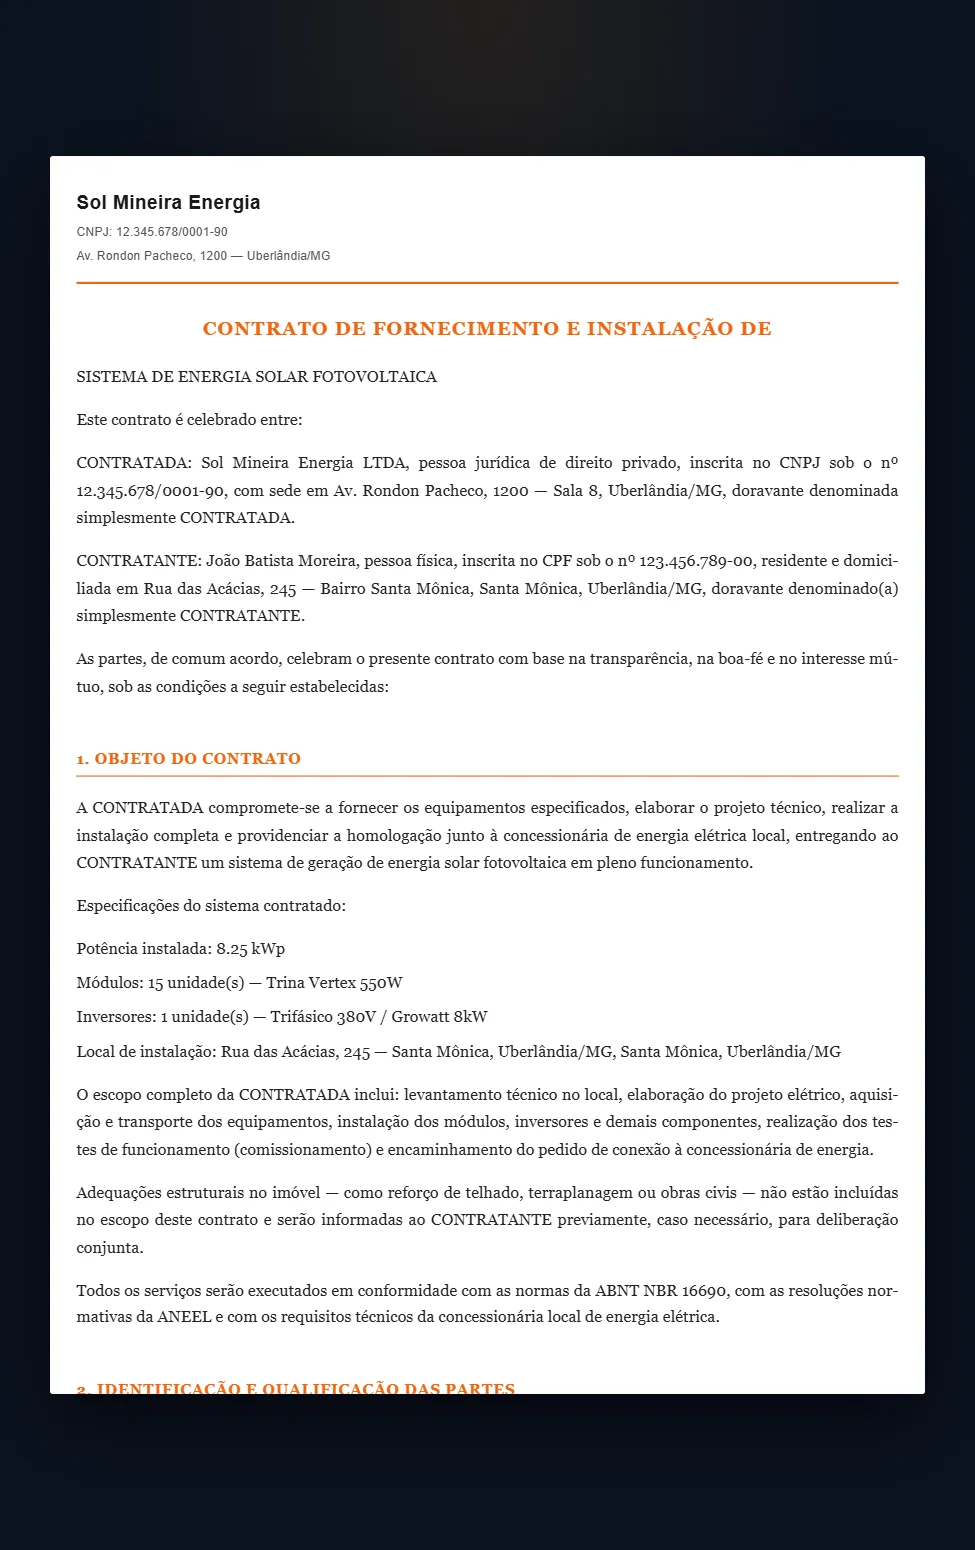
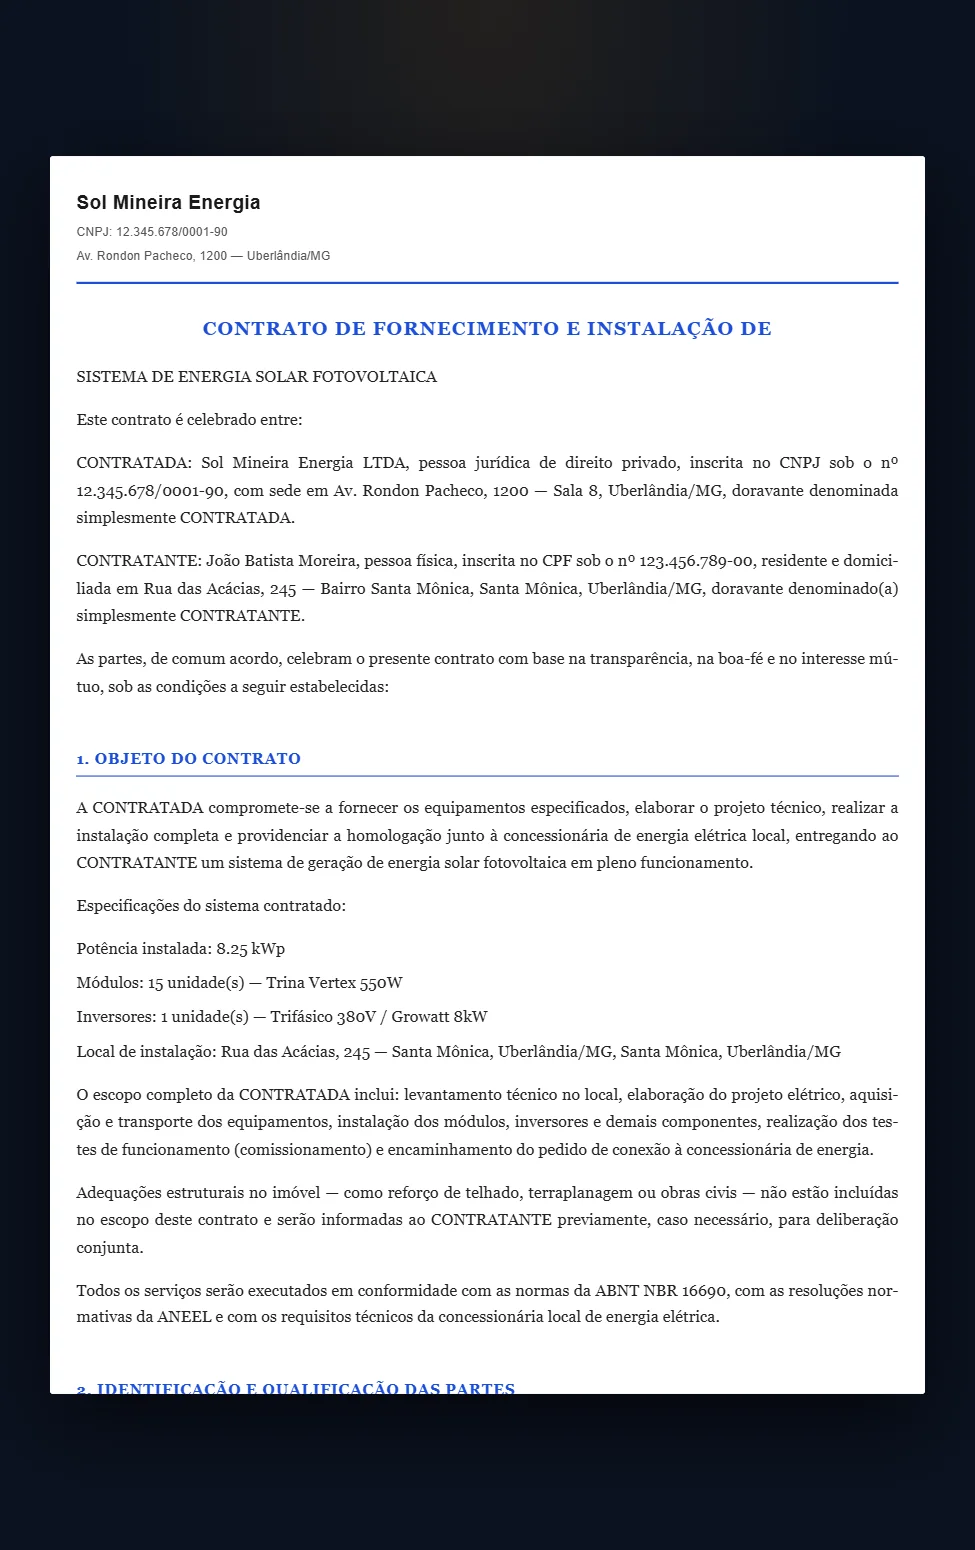
feat(lp): documentos em AZUL E AMARELO e o carrossel completo (11 folhas A4)
1. A COR DA EMPRESA DE DEMONSTRACAO virou azul (#1D4ED8) + amarelo
   (#FACC15). Nao e capricho: com o laranja de antes, o documento parecia
   ser do SolarDoc. Em azul fica evidente na hora que a folha sai com a
   marca DE QUEM ASSINA - que e o argumento da pagina inteira. A legenda
   passa a apontar isso.

2. CARROSSEL COMPLETO - 11 folhas A4, de 3 em 3 segundos:
   proposta comercial · orcamento de 1 pagina · contrato · procuracao ·
   recibo · proposta pro banco · prestacao de servico · contrato de
   vendedor · checklist de vistoria · fechamento de preco · inventario

   Prestacao de servico e contrato de vendedor exigiam TERCEIRO alem do
   cliente, e o robo de captura escolhia so no primeiro seletor. Agora
   escolhe nos dois - e o termo depende do placeholder: o de cliente diz
   "Buscar cliente...", o de terceiro diz "Buscar por nome, representante
   ou CPF/CNPJ...". Casar por "CNPJ" pegava os DOIS e nada era gerado.

3. PRECIFICACAO E INVENTARIO viraram pagina. O inventario tem @media print
   de verdade, entao e o relatorio DELE que aparece (patrimonio R$
   78.136,00) - fotografado em modo de impressao numa folha 900x1273, nao
   clonado: clone perdia o estilo e saia folha em branco. A precificacao
   nao tem folha propria, entao os dois paineis reais (custos e resultado)
   entram numa folha com o cabecalho da empresa.

diff --git a/dashboard/src/components/Landing/Landing.tsx b/dashboard/src/components/Landing/Landing.tsx
@@ -68,42 +68,49 @@ const CONCESSIONARIAS = [
 //  - o contrato é a tela de preview do app renderizando esse mesmo conteúdo;
 //  - precificação e inventário são as telas de verdade, com os cálculos feitos.
 const TELAS = [
-  {
-    img: '/tela/doc-proposta.webp',
-    imgMobile: '/tela/doc-proposta-mobile.webp',
+  { img: '/tela/doc-proposta.webp',      imgMobile: '/tela/doc-proposta-mobile.webp',
     titulo: 'Proposta comercial',
-    texto: 'Economia em 25 anos, conta antes e depois e geração mês a mês — com a sua marca no topo.',
-  },
-  {
-    img: '/tela/doc-proposta-a4.webp',
-    imgMobile: '/tela/doc-proposta-a4-mobile.webp',
+    texto: 'Economia em 25 anos, conta antes e depois e geração mês a mês — na marca da empresa.' },
+
+  { img: '/tela/doc-proposta-a4.webp',   imgMobile: '/tela/doc-proposta-a4-mobile.webp',
     titulo: 'Orçamento de 1 página',
-    texto: 'Investimento, economia mensal e tempo de retorno numa folha só, pronta pro WhatsApp.',
-  },
-  {
-    img: '/tela/doc-contrato.webp',
-    imgMobile: '/tela/doc-contrato-mobile.webp',
+    texto: 'Investimento, economia mensal e tempo de retorno numa folha só, pronta pro WhatsApp.' },
+
+  { img: '/tela/doc-contrato.webp',      imgMobile: '/tela/doc-contrato-mobile.webp',
     titulo: 'Contrato de compra e venda',
-    texto: 'Partes, equipamentos, prazos e garantias já escritos. Você só confere e envia.',
-  },
-  {
-    img: '/tela/doc-procuracao.webp',
-    imgMobile: '/tela/doc-procuracao-mobile.webp',
+    texto: 'Partes, equipamentos, prazos e garantias já escritos. Você só confere e envia.' },
+
+  { img: '/tela/doc-procuracao.webp',    imgMobile: '/tela/doc-procuracao-mobile.webp',
     titulo: 'Procuração pra concessionária',
-    texto: 'Com UC, concessionária e os poderes certos — no padrão que passa de primeira.',
-  },
-  {
-    img: '/tela/doc-recibo.webp',
-    imgMobile: '/tela/doc-recibo-mobile.webp',
+    texto: 'Com UC, concessionária e os poderes certos — no padrão que passa de primeira.' },
+
+  { img: '/tela/doc-recibo.webp',        imgMobile: '/tela/doc-recibo-mobile.webp',
     titulo: 'Recibo de pagamento',
-    texto: 'Lança as parcelas e ele calcula sozinho quanto o cliente já pagou e quanto falta.',
-  },
-  {
-    img: '/tela/doc-banco.webp',
-    imgMobile: '/tela/doc-banco-mobile.webp',
+    texto: 'Lança as parcelas e ele calcula sozinho o que o cliente já pagou e o que falta.' },
+
+  { img: '/tela/doc-banco.webp',         imgMobile: '/tela/doc-banco-mobile.webp',
     titulo: 'Proposta pro banco financiar',
-    texto: 'No formato que a financeira pede: equipamento, mão de obra e valor total separados.',
-  },
+    texto: 'No formato que a financeira pede: equipamento, mão de obra e valor total separados.' },
+
+  { img: '/tela/doc-servico.webp',       imgMobile: '/tela/doc-servico-mobile.webp',
+    titulo: 'Prestação de serviço',
+    texto: 'O contrato com o instalador terceirizado: escopo, prazo, valor e forma de pagamento.' },
+
+  { img: '/tela/doc-vendedor.webp',      imgMobile: '/tela/doc-vendedor-mobile.webp',
+    titulo: 'Contrato de vendedor',
+    texto: 'Representação comercial autônoma: comissão, meta e adiantamento, sem vínculo.' },
+
+  { img: '/tela/doc-vistoria.webp',      imgMobile: '/tela/doc-vistoria-mobile.webp',
+    titulo: 'Checklist de vistoria',
+    texto: 'A folha que vai pra obra: consumo, padrão, telhado, fotos e conclusão da visita.' },
+
+  { img: '/tela/doc-precificacao.webp',  imgMobile: '/tela/doc-precificacao-mobile.webp',
+    titulo: 'Fechamento de preço',
+    texto: 'Custo do kit, mão de obra e margem entram — preço de venda e lucro saem calculados.' },
+
+  { img: '/tela/doc-inventario.webp',    imgMobile: '/tela/doc-inventario-mobile.webp',
+    titulo: 'Inventário da empresa',
+    texto: 'Material, quantidade, valor unitário e o patrimônio total — pronto pra imprimir.' },
 ];
 
 export default function Landing() {
@@ -577,8 +584,8 @@ export default function Landing() {
             É <strong>isso que sai</strong> quando você clica em gerar.
           </h2>
           <p className={styles.sectionSub} data-reveal>
-            Seis documentos, do orçamento à procuração — gerados pelo próprio sistema
-            com dados de exemplo. É o PDF que chega no cliente.
+            Onze páginas em A4, do orçamento ao inventário — geradas pelo próprio sistema.
+            Repare na cor: o documento sai com a marca <b>da sua empresa</b>, não com a nossa.
           </p>
 
           <div

diff --git a/api/scripts/lp-docs.ts b/api/scripts/lp-docs.ts
@@ -20,8 +20,8 @@ const empresa: any = {
   email: 'contato@solmineira.com.br',
   socio_adm: 'Ricardo Alves Pereira',
   socio_cpf: '111.222.333-44',
-  cor_primaria: '#F26513',
-  cor_destaque: '#FBBF24',
+  cor_marca: '#1D4ED8',        // azul da empresa de demonstração
+  cor_secundaria: '#FACC15',   // amarelo (acento)
   logo_base64: null,
 };
 
@@ -102,6 +102,23 @@ const camposVistoria = {
   conclusao: 'Imóvel apto para instalação de 8,25 kWp com 15 módulos.',
 };
 
+const camposPrestacao = {
+  cliente_final_nome: 'João Batista Moreira',
+  cliente_final_telefone: '(34) 98888-7777',
+  cliente_final_endereco_instalacao: 'Rua das Acácias, 245 — Santa Mônica, Uberlândia/MG',
+  cliente_final_padrao: 'Trifásico 380V', cliente_final_tipo_telhado: 'Cerâmico',
+  qtd_modulos: 15, modelo_modulo: 'Trina Vertex 550W',
+  qtd_inversores: 1, modelo_inversor: 'Growatt 8kW',
+  valor_servico: 4800, prazo: 10,
+  forma_pagamento: '50% na chegada do material e 50% na conclusão da obra',
+  foro_cidade: 'Uberlândia',
+};
+
+const camposVendedor = {
+  percentual_comissao: 4, meta_semanal: 2,
+  adiantamento_quinzenal: 500, foro_cidade: 'Uberlândia',
+};
+
 const DOCS: Array<{ nome: string; tipo: string; campos: any; modelo?: 1 | 2 | 3 }> = [
   { nome: 'proposta-1pagina', tipo: 'propostaSolar', campos: camposProposta, modelo: 1 },
   { nome: 'proposta-moderna', tipo: 'propostaSolar', campos: camposProposta, modelo: 2 },
@@ -109,7 +126,9 @@ const DOCS: Array<{ nome: string; tipo: string; campos: any; modelo?: 1 | 2 | 3 
   { nome: 'procuracao',       tipo: 'procuracao',    campos: camposProcuracao },
   { nome: 'recibo',           tipo: 'recibo',        campos: camposRecibo },
   { nome: 'proposta-banco',   tipo: 'propostaBanco', campos: camposBanco },
-  { nome: 'vistoria',         tipo: 'vistoria',      campos: camposVistoria },
+  { nome: 'vistoria',         tipo: 'vistoria',       campos: camposVistoria },
+  { nome: 'prestacao',        tipo: 'prestacaoServico', campos: camposPrestacao },
+  { nome: 'vendedor',         tipo: 'contratoPJ',     campos: camposVendedor },
 ];
 
 for (const d of DOCS) {
